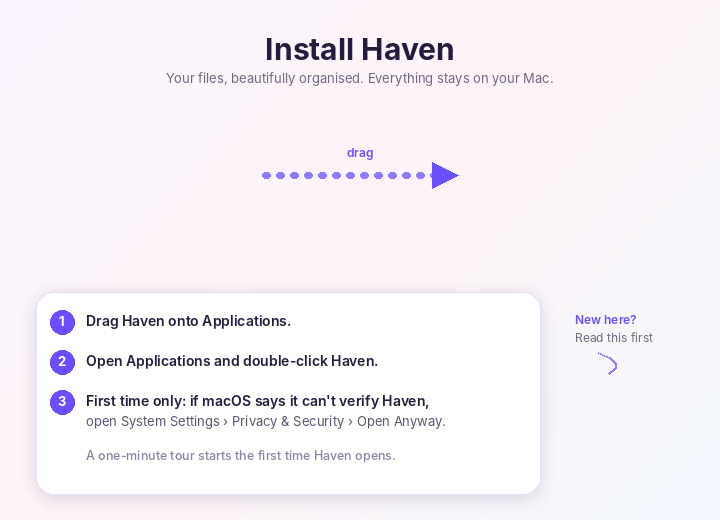
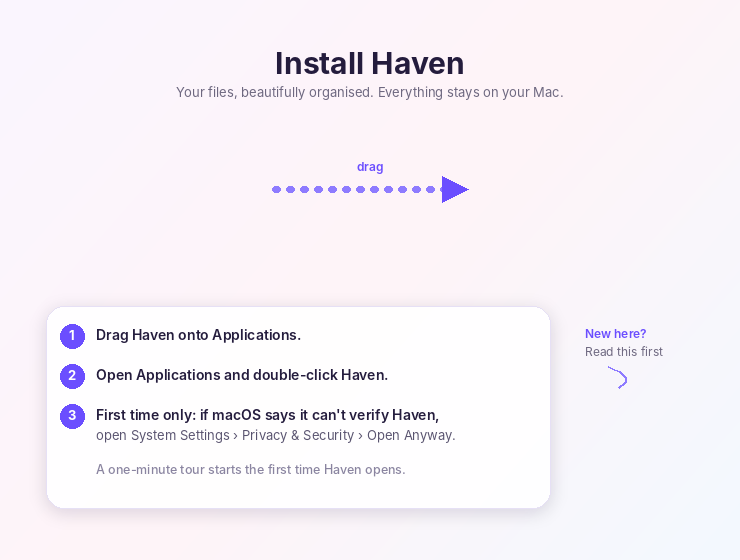
Detach the Live Text overlay when the preview closes; read Finder tags from the file attribute; keep crash reports in CI; new DMG background with room to spare
Claude-Session: https://claude.ai/code/session_0187ffbHPcgixQh4Kyu8G2Qs

diff --git a/Packages/HavenCore/Sources/HavenCore/Scan/XAttr.swift b/Packages/HavenCore/Sources/HavenCore/Scan/XAttr.swift
@@ -61,6 +61,13 @@ public enum XAttr {
         return false
     }
 
+    /// Finder tags ("Work", "Red"…), stored as "Name\n<colour>" strings.
+    public static func tags(_ path: String) -> [String] {
+        guard let d = data(path, "com.apple.metadata:_kMDItemUserTags"),
+              let list = try? PropertyListSerialization.propertyList(from: d, options: [], format: nil) as? [String] else { return [] }
+        return list.compactMap { $0.split(separator: "\n").first.map(String.init) }.filter { !$0.isEmpty }
+    }
+
     public static func testAddedDate(_ path: String) -> Date? {
         guard let d = data(path, testAddedName), let s = String(data: d, encoding: .utf8), let t = Double(s) else { return nil }
         return Date(timeIntervalSince1970: t)

diff --git a/Tests/HavenUITests/HavenUITests.swift b/Tests/HavenUITests/HavenUITests.swift
@@ -97,9 +97,10 @@ final class HavenUITests: XCTestCase {
         snap("03-onboarding-folders")
         next.click()
         waitFor(app.staticTexts["Pick a look"])
-        el("onboarding.look.minimal").click()
+        app.typeKey("t", modifierFlags: [.command, .control])
+        sleep(1)
         snap("04-onboarding-look-minimal")
-        el("onboarding.look.playful").click()
+        app.typeKey("t", modifierFlags: [.command, .control])
         next.click()
         waitFor(app.staticTexts["Search the way you talk"])
         app.buttons["screenshots over 5 MB"].click()

diff --git a/App/Views/PreviewOverlay.swift b/App/Views/PreviewOverlay.swift
@@ -159,6 +159,12 @@ struct LiveTextImage: NSViewRepresentable {
 
     static func dismantleNSView(_ view: NSImageView, coordinator: Coordinator) {
         coordinator.task?.cancel()
+        for overlay in view.subviews.compactMap({ $0 as? ImageAnalysisOverlayView }) {
+            overlay.analysis = nil
+            overlay.trackingImageView = nil
+            overlay.removeFromSuperview()
+        }
+        view.image = nil
     }
 
     private func load(into view: NSImageView, context: Context) {

diff --git a/Packages/HavenCore/Sources/HavenCore/Scan/FileScanner.swift b/Packages/HavenCore/Sources/HavenCore/Scan/FileScanner.swift
@@ -171,6 +171,7 @@ public enum FileScanner {
             }
         }
         lastOpened = XAttr.lastUsedDate(path)
+        if tags.isEmpty { tags = XAttr.tags(path) }
         if options.honorTestDates, let testAdded = XAttr.testAddedDate(path) {
             added = testAdded
         }

diff --git a/packaging/make_art.py b/packaging/make_art.py
@@ -7,7 +7,9 @@ import os
 from PIL import Image, ImageDraw, ImageFilter, ImageFont
 
 HERE = os.path.dirname(os.path.abspath(__file__))
-W, H = 720, 520
+W, H = 740, 560
+# Everything is laid out on a 720×520 grid, offset so Finder has breathing room (no scrollbars).
+OX, OY = 10, 14
 INTER = "/usr/share/fonts/opentype/inter/Inter-{}.otf"
 
 
@@ -20,13 +22,18 @@ def hexrgb(h, a=255):
 
 
 def background(scale):
-    w, h = W * scale, H * scale
+    full = gradient(W * scale, H * scale)
+    layer = content(scale)
+    full.paste(layer, (OX * scale, OY * scale), layer)
+    return full.convert("RGB")
+
+
+def gradient(w, h):
     img = Image.new("RGBA", (w, h), (255, 255, 255, 255))
     px = img.load()
-    # Soft diagonal pastel wash.
     c1, c2, c3 = (250, 246, 255), (255, 244, 248), (243, 249, 255)
     for y in range(h):
-        for x in range(0, w, 1):
+        for x in range(w):
             t = (x / w * 0.6 + y / h * 0.4)
             if t < 0.5:
                 u = t / 0.5
@@ -35,6 +42,12 @@ def background(scale):
                 u = (t - 0.5) / 0.5
                 c = tuple(int(c2[i] + (c3[i] - c2[i]) * u) for i in range(3))
             px[x, y] = c + (255,)
+    return img
+
+
+def content(scale):
+    w, h = 720 * scale, 520 * scale
+    img = Image.new("RGBA", (w, h), (0, 0, 0, 0))
     d = ImageDraw.Draw(img)
     s = scale
 
@@ -101,7 +114,7 @@ def background(scale):
         t = i / 19
         pts.append(((598 + 18 * math.sin(t * math.pi * 0.8)) * s, (352 + 22 * t) * s))
     d.line(pts, fill=hexrgb(0x8E7BFF), width=int(2 * s))
-    return img.convert("RGB")
+    return img
 
 
 def readme_pdf(path):

diff --git a/packaging/dmg_settings.py b/packaging/dmg_settings.py
@@ -22,8 +22,8 @@ show_pathbar = False
 show_sidebar = False
 sidebar_width = 0
 
-# Content area matches the 720×520 background; the extra height is the title bar.
-window_rect = ((180, 140), (720, 562))
+# The 740×560 background (content laid out on a 720×520 grid offset by 10,14) plus the title bar.
+window_rect = ((180, 120), (740, 600))
 default_view = "icon-view"
 show_icon_preview = False
 include_icon_view_settings = "auto"
@@ -38,7 +38,7 @@ text_size = 13
 icon_size = 112
 
 icon_locations = {
-    appname: (180, 175),
-    "Applications": (540, 175),
-    readmename: (620, 405),
+    appname: (190, 189),
+    "Applications": (550, 189),
+    readmename: (630, 419),
 }
